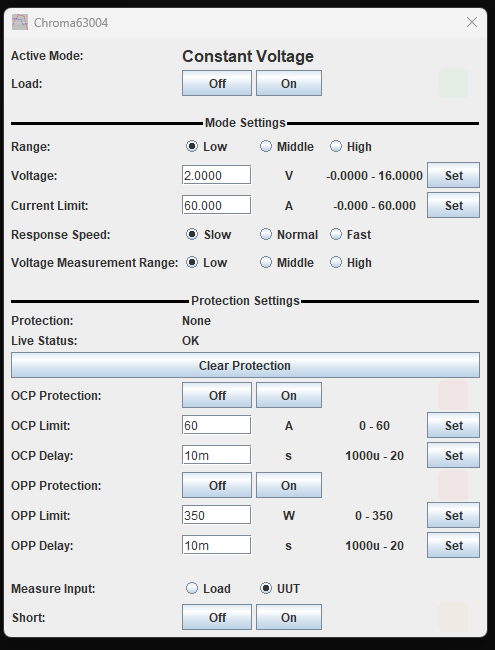
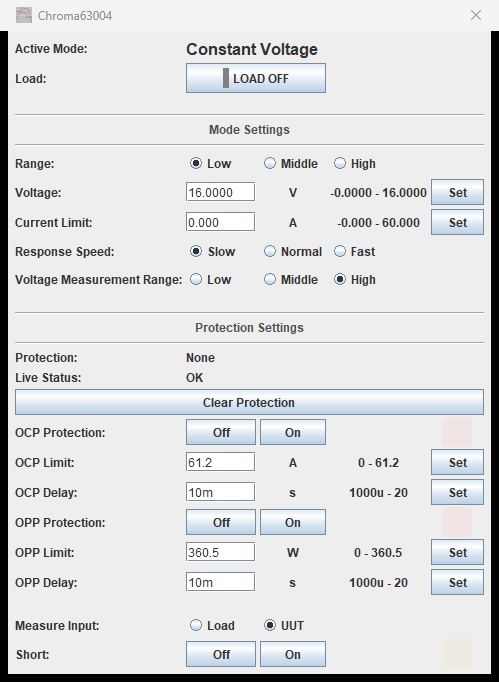
Both drivers to a common design; correct the Chroma protection ceilings
Chroma 1.2: section headings match the supply's banded form, and Load becomes a
single button carrying its own state - grey off, green on - like the supply's
Output. Protection ceilings corrected: CONF:OCP:POIN and CONF:OPP:POIN accept
values above the rated output, 61.2 A and 360.5 W against a rated 60 A / 350 W,
so capping at the rated figure showed the load's own factory setting as out of
range.

E363xA 1.1: the Apply heading comes off the Trigger tab, where Arm and Trigger
Now sit directly under the pending setpoints and needed no label.

All screenshots recaptured.

diff --git a/README.md b/README.md
@@ -16,8 +16,8 @@ Discussion and support for TestController itself is on the EEVblog thread
 
 | Driver | Instruments | Interface | Rev |
 | --- | --- | --- | --- |
-| [Chroma 63000 Series](drivers/Chroma_63000_Series/) | Chroma 63003-150-40, 63004-150-60 DC electronic load | GPIB / LXI / serial | 1.1 |
-| [HP / Agilent E363xA](drivers/HP_Agilent_E363xA/) | HP E3632A, E3633A, E3634A DC power supply | GPIB / RS-232 | 1.0 |
+| [Chroma 63000 Series](drivers/Chroma_63000_Series/) | Chroma 63003-150-40, 63004-150-60 DC electronic load | GPIB / LXI / serial | 1.2 |
+| [HP / Agilent E363xA](drivers/HP_Agilent_E363xA/) | HP E3632A, E3633A, E3634A DC power supply | GPIB / RS-232 | 1.1 |
 
 Each driver has its own folder containing the driver file, screenshots of every mode
 page, and notes on instrument behaviour worth knowing before you use it.

diff --git a/drivers/Chroma_63000_Series/instrument-notes.md b/drivers/Chroma_63000_Series/instrument-notes.md
@@ -112,6 +112,22 @@ stopped, `-2,-2,-2` when waiting for Von or a trigger, and `-3,-3,-3` while runn
 
 ---
 
+## Protection points sit above the rated maximum
+
+`CONF:OCP:POINt` and `CONF:OPP:POINt` accept values **above** the model's rated output.
+On a 63004-150-60, rated 60 A and 350 W:
+
+    CONF:OCP:POIN? MAX  ->  61.2
+    CONF:OPP:POIN? MAX  ->  360.5
+
+Roughly 2% and 3% of headroom. A driver that caps these at the rated figure shows the
+instrument's own factory setting as out of range.
+
+The manual only says "refer to respective specification for valid value range", so the
+instrument is the authority — query `? MAX` rather than assuming.
+
+---
+
 ## Protection status
 
 `LOAD:PROT?` latches and stays set until `LOAD:PROT:CLE`. `FETC:STAT?` reports the

diff --git a/drivers/Chroma_63000_Series/README.md b/drivers/Chroma_63000_Series/README.md
@@ -9,7 +9,7 @@ than copied from the datasheet.
 | | |
 | --- | --- |
 | **Driver** | [`Chroma_63000_Series.txt`](Chroma_63000_Series.txt) |
-| **Revision** | 1.0 |
+| **Revision** | 1.2 |
 | **Interface** | GPIB, LXI, serial |
 | **Instrument notes** | [`instrument-notes.md`](instrument-notes.md) |
 

diff --git a/drivers/HP_Agilent_E363xA/README.md b/drivers/HP_Agilent_E363xA/README.md
@@ -10,7 +10,7 @@ from the data sheet.
 | | |
 | --- | --- |
 | **Driver** | [`HP_Agilent_E363xA.txt`](HP_Agilent_E363xA.txt) |
-| **Revision** | 1.0 |
+| **Revision** | 1.1 |
 | **Interface** | GPIB, RS-232 |
 | **Instrument notes** | [`instrument-notes.md`](instrument-notes.md) |
 
